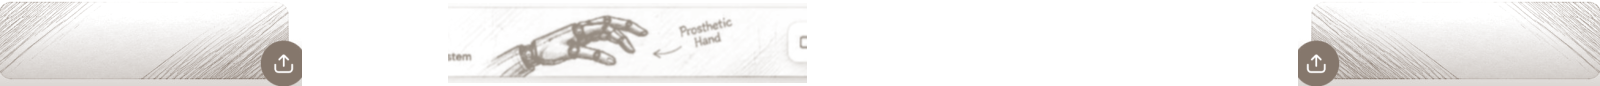
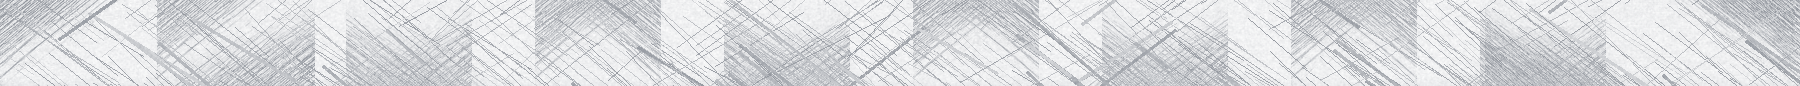
fix(ui): remove robotic hand illustration from topbar and apply pure subtle pencil scratch roughness texture

diff --git a/static/style.css b/static/style.css
@@ -8,7 +8,7 @@
 /* --- Topbar Header Style (Matching Exact Reference Screenshot with Pencil Sketch & Hatching) --- */
 .topbar {
   background-color: #ffffff !important;
-  background-image: url('/static/images/topbar_pencil_bg.png') !important;
+  background-image: url('/static/images/topbar_pencil_bg.png?v=2') !important;
   background-repeat: no-repeat !important;
   background-position: center center !important;
   background-size: 100% 100% !important;

diff --git a/templates/index.html b/templates/index.html
@@ -3,7 +3,7 @@
 <head>
   <meta charset="utf-8"><meta name="viewport" content="width=device-width, initial-scale=1">
   <meta name="theme-color" content="#f3f7ff"><title>HELPING HAND · Prosthetic Hand Control</title>
-  <link rel="stylesheet" href="{{ url_for('static', filename='style.css') }}?v=27">
+  <link rel="stylesheet" href="{{ url_for('static', filename='style.css') }}?v=28">
 </head>
 <body>
 <main class="app-shell">
